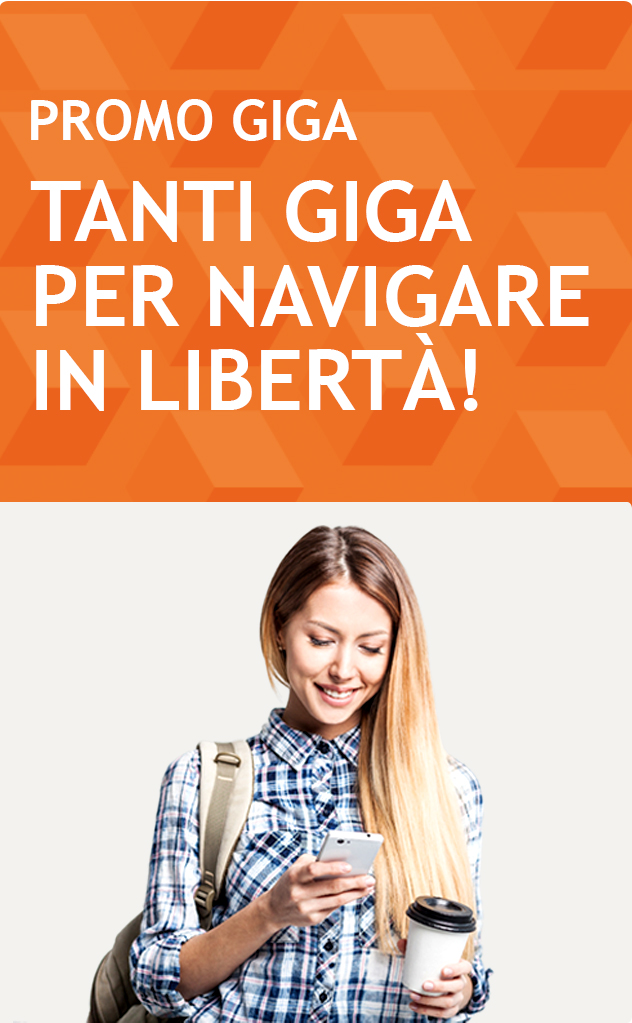
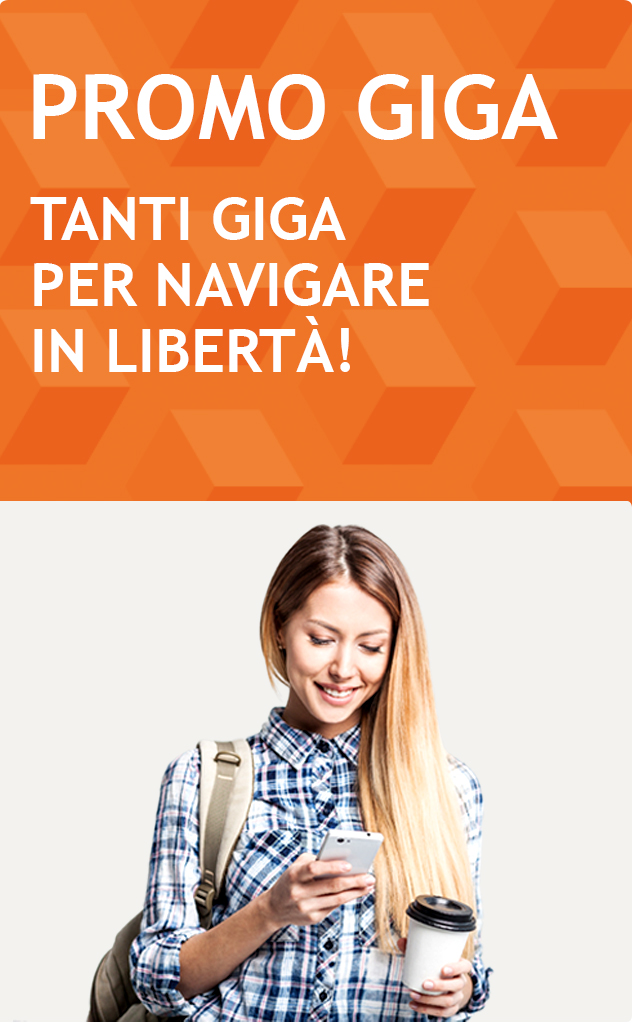
LP Promo Giga Maggio 2017 rework layout

Changed region(s): [[0.0301, 0.0606, 0.932, 0.4242], [0.1804, 0.5152, 0.7816, 1.0], [0.4209, 0.5455, 0.4509, 0.5758]]

diff --git a/canvass/maggio/promo_giga_maggio_2017/html/index.html b/canvass/maggio/promo_giga_maggio_2017/html/index.html
@@ -31,7 +31,7 @@
     <!-- container PROMO GIGA -->
     <div class="landing_promogiga container">
         <!-- Immagine Visore PROMO GIGA -->
-        <div class="landing_promogiga__hero hero_1 padding_top_25 padding_bottom_25 padding_left_20 padding_right_20">
+        <div class="landing_promogiga__hero hero_1 padding_top_25 padding_bottom_25">
             <img class="hero_wide img_responsive" src="../img/visori/visore-promogiga_wide.jpg" alt="Promo Giga per navigare in libertà">
             <img class="hero_mobile img_responsive" src="../img/visori/visore-promogiga_mobile.jpg" alt="Promo Giga per navigare in libertà">
         </div>
@@ -47,11 +47,12 @@
         </div> -->
         <!-- /Sub Slogan PROMO GIGA -->
         <!-- Box Details 1 -->
-        <div class="landing_promogiga__boxDetails">
-            <div class="landing_promogiga__boxDetails--firstCell font_size_32 font_size_m_26 line_height_32 line_height_m_28 text_regular text_uppercase">In regalo
-                <br class="desktop_only" /> per te
-                <br /><span class="text_bold">Più Internet</span></div>
-            <div class="landing_promogiga__boxDetails--secondCell font_size_20 font_size_m_16 line_height_24 line_height_m_18 padding_bottom_m_10">1 GIGA di Internet al mese per 2 mesi, alla massima velocità disponibile, aggiunti gratuitamente alla tua offerta All Inclusive!</div>
+        <div class="landing_promogiga__boxDetails grey">
+            <div class="landing_promogiga__boxDetails--uniqueCell ">
+                <span class="font_size_32 font_size_m_26 line_height_32 line_height_m_28 text_bold text_color_orange text_uppercase">In regalo per te Più Internet</span>
+                <br />
+                <br />
+                <span class="font_size_20 font_size_m_16 line_height_24 line_height_m_18 padding_bottom_m_10">1 GIGA di Internet al mese per 2 mesi, alla massima velocità disponibile, aggiunti gratuitamente alla tua offerta All Inclusive!</span></div>
             <!-- Wind Ricorda -->
             <div class="wind_ricorda">
                 <div class="wind_ricorda__reminder text_size_14 text_color_orange">
@@ -66,23 +67,24 @@
         </div>
         <!-- /Box Details 1 -->
         <!-- Box Details 2  -->
-        <div class="landing_promogiga__boxDetails">
-            <div class="landing_promogiga__boxDetails--uniqueCell text_regular"><span class="font_size_32 font_size_m_26 line_height_32 line_height_m_28  text_uppercase">Attiva COGLI L'ATTIMO <span class="text_bold">100 GIGA a soli 10€</span>
+        <div class="landing_promogiga__boxDetails white">
+            <div class="landing_promogiga__boxDetails--uniqueCell text_regular font_size_18 font_size_m_14 line_height_18 line_height_m_16"><span class="font_size_32 font_size_m_26 line_height_32 line_height_m_28  text_uppercase">Attiva COGLI L'ATTIMO <span class="text_bold">100 GIGA a soli 10€</span>
                 <br class="desktop_only" /> per tutto il 2017!</span>
                 <br />
                 <br/>
                 <br/><span class="font_size_20 font_size_m_16 line_height_24 line_height_m_18">100 GIGA di Internet da utilizzare fino al 31/12/2017 alla massima velocità disponibile al costo promozionale di 10 euro invece di 25 euro da aggiungere alla tua offerta All Inclusive!</span>
                 <br />
                 <br/>
-                <br/><span class="font_size_18 font_size_m_14 line_height_18 line_height_m_16">Per fruire di Più Internet basta attendere l’SMS che conferma l’attivazione gratuita.<br/><br/>
-                Per Attivare Cogli l’attimo 100 Giga:<br/>
+                <br/>Per fruire di Più Internet basta attendere l'SMS che conferma l’attivazione gratuita.
+                <br/>
+                <br/> Per Attivare Cogli l’attimo 100 Giga:
+                <br/>
                 <ol class="decimal_list">
-                    <li>Attendi l’SMS  che conferma l’attivazione gratuita di Più Internet</li>
+                    <li>Attendi l’SMS che conferma l'attivazione gratuita di Più Internet</li>
                     <li>Invia un SMS con testo 100 Giga al numero da cui hai ricevuto l’offerta (40400)</li>
                     <li>Attendi l’SMS che conferma l’attivazione di Cogli l’attimo 100 Giga</li>
                 </ol>
-                <br class="for_mobile_only" />
-                …Ora naviga in libertà fino alla fine dell’anno!</span></div>
+                <br class="for_mobile_only" /> …Ora naviga in libertà fino alla fine dell'anno!</div>
             <!-- Wind Ricorda -->
             <div class="wind_ricorda">
                 <div class="wind_ricorda__reminder text_size_14 text_color_orange">

diff --git a/canvass/maggio/promo_giga_maggio_2017/css/canvas_style.css b/canvass/maggio/promo_giga_maggio_2017/css/canvas_style.css
@@ -1162,7 +1162,6 @@ body {
         margin: 0 auto;
         background-color: #656d78; }
   .landing_promogiga__boxDetails {
-    background-color: #f4f4f4;
     border-radius: 4px;
     border: 1px solid #D3D3d2;
     padding: 10px 10px 0 10px;
@@ -1170,6 +1169,10 @@ body {
     /*@include breakpoint(display_smaller) {
                 padding: 15px;
             }*/ }
+    .landing_promogiga__boxDetails.white {
+      background-color: #ffffff; }
+    .landing_promogiga__boxDetails.grey {
+      background-color: #f4f4f4; }
     .landing_promogiga__boxDetails--firstCell {
       display: block;
       float: left;
